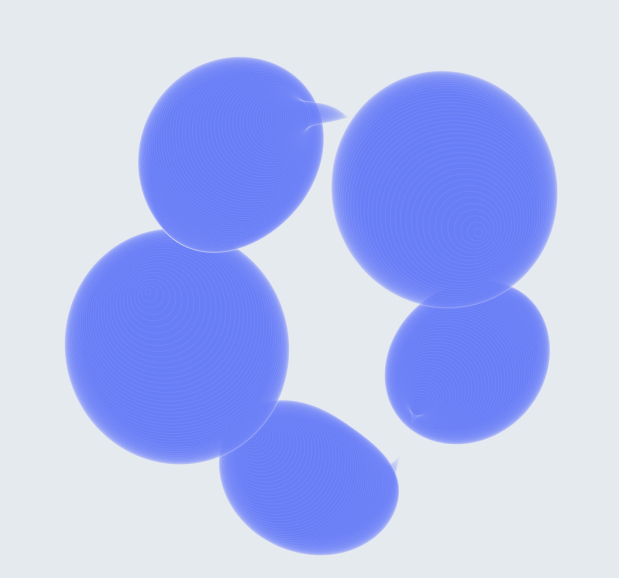
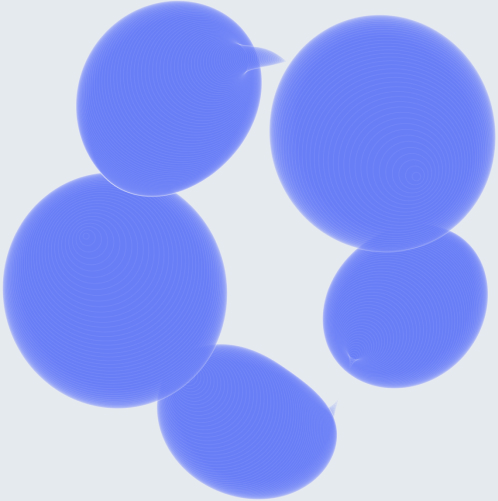
Added animation to hero image

diff --git a/src/components/App.js b/src/components/App.js
@@ -1,5 +1,6 @@
 import React from "react";
 import styled from "styled-components";
+import { Link } from "react-scroll";
 import GlobalStyle from "./themes/globalStyle";
 import Header from "./Header";
 import Section from "./Section";
@@ -26,7 +27,9 @@ function App() {
                 experience, machine learning and artificial intelligence
               </P>
               <Buttons>
-                <ButtonMain href="#Resources">Read more</ButtonMain>
+                <ButtonMain to="Resources" offset={30} smooth={true}>
+                  Read more
+                </ButtonMain>
                 <ButtonSecondary href="mailto:vladkyshkan@gmail.com">
                   Suggest a link{" "}
                   <svg
@@ -117,7 +120,7 @@ const P = styled.p`
   }
 `;
 
-const ButtonMain = styled.a`
+const ButtonMain = styled(Link)`
   color: #e5eaef;
   padding: 16px 80px;
   background: #6275ff;
@@ -217,13 +220,24 @@ const HeroScreen = styled.div`
 
 const HeroTitle = styled.div`
   padding-top: 80px;
+  z-index: 5;
 `;
 
 const HeroContent = styled.div`
   display: flex;
 
   img {
-    margin: 80px 0 0 48px;
+    margin: 120px 0 0 120px;
+    animation: rotate 120s infinite;
+
+    @keyframes rotate {
+      from {
+        -webkit-transform: rotate(0deg);
+      }
+      to {
+        -webkit-transform: rotate(360deg);
+      }
+    }
   }
 
   @media only screen and (max-width: 1120px) {
@@ -247,6 +261,8 @@ const Buttons = styled.div`
   }
 `;
 
-const SectionList = styled.div``;
+const SectionList = styled.div`
+  z-index: 5;
+`;
 
 export default App;

diff --git a/src/components/ButtonNav.js b/src/components/ButtonNav.js
@@ -25,8 +25,6 @@ const StyledLink = styled(Link)`
   :hover {
     cursor: pointer;
     color: #6275ff;
-    padding-bottom: 29px;
-    border-bottom: 2px solid #6275ff;
   }
 
   &.active {
